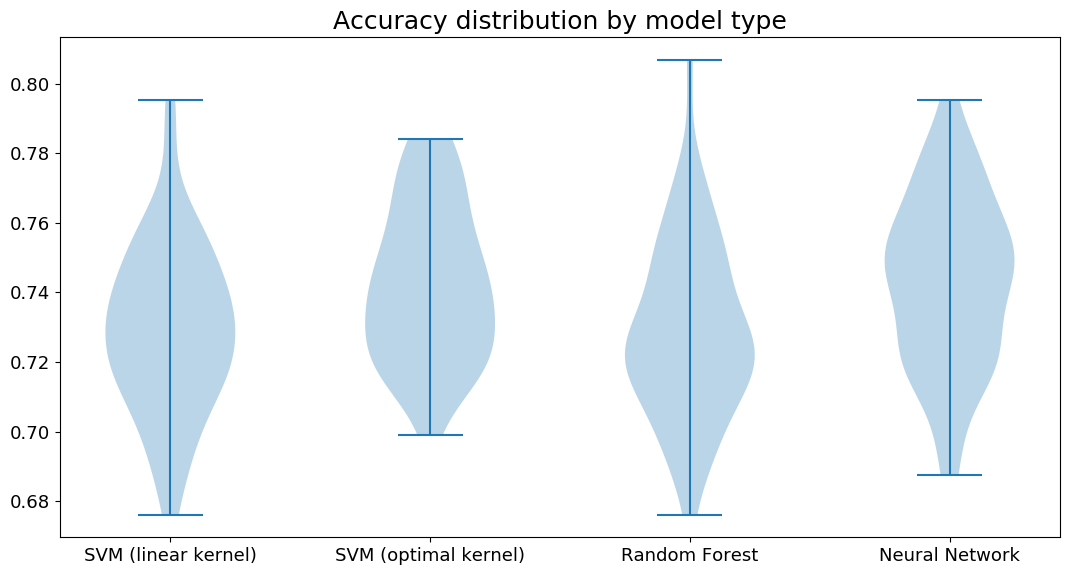
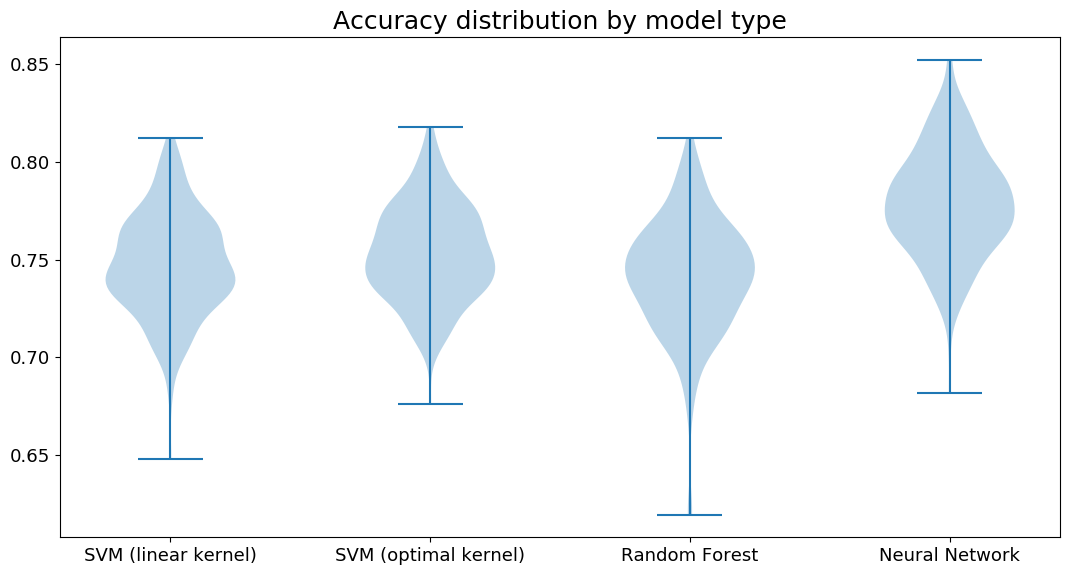
finished 250 model test and recorded mean/std

diff --git a/SVMVGC.py b/SVMVGC.py
@@ -144,7 +144,7 @@ def splitAndTest(X, y, modelToUse):
         bestModel.compile(loss='binary_crossentropy', optimizer='adam', metrics=['accuracy'])
     
     #tune params and report accuracy n times
-    avgOver = 50
+    avgOver = 250
     accuracyReport = np.zeros(avgOver)
     trainTestReport = np.zeros(avgOver)
     trainResults = 0.0
@@ -231,7 +231,7 @@ def splitAndTest(X, y, modelToUse):
     print(accuracyReport)
     print(trainTestReport)
     return [accuracyReport,trainTestReport]
-#X,y = generateXy()
+X,y = generateXy()
 start2 = time()
 accuracyArray = list()
 trainTestArray = list()
@@ -247,6 +247,8 @@ trainTestArray.append(returnArray[1])
 returnArray = splitAndTest(X,y,2)
 accuracyArray.append(returnArray[0])
 trainTestArray.append(returnArray[1])
+
+np.std(trainTestArray[0])
 # Create a figure instance
 fig = plt.figure(figsize=(10,5))
 
